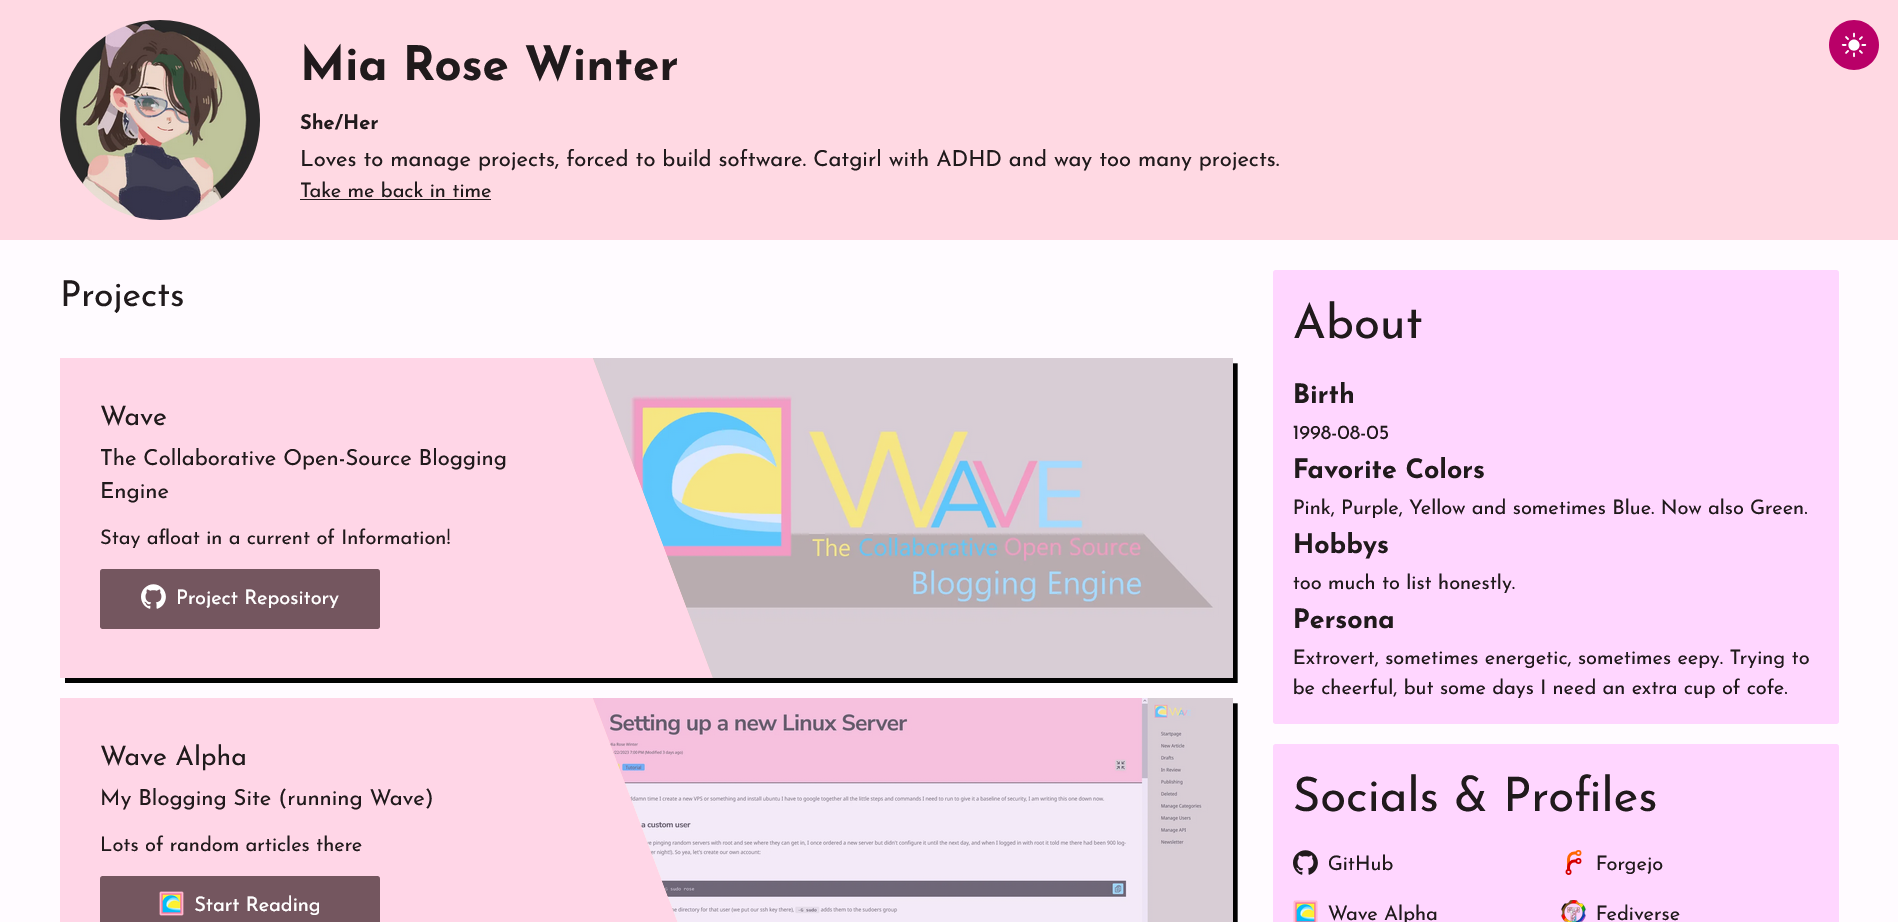
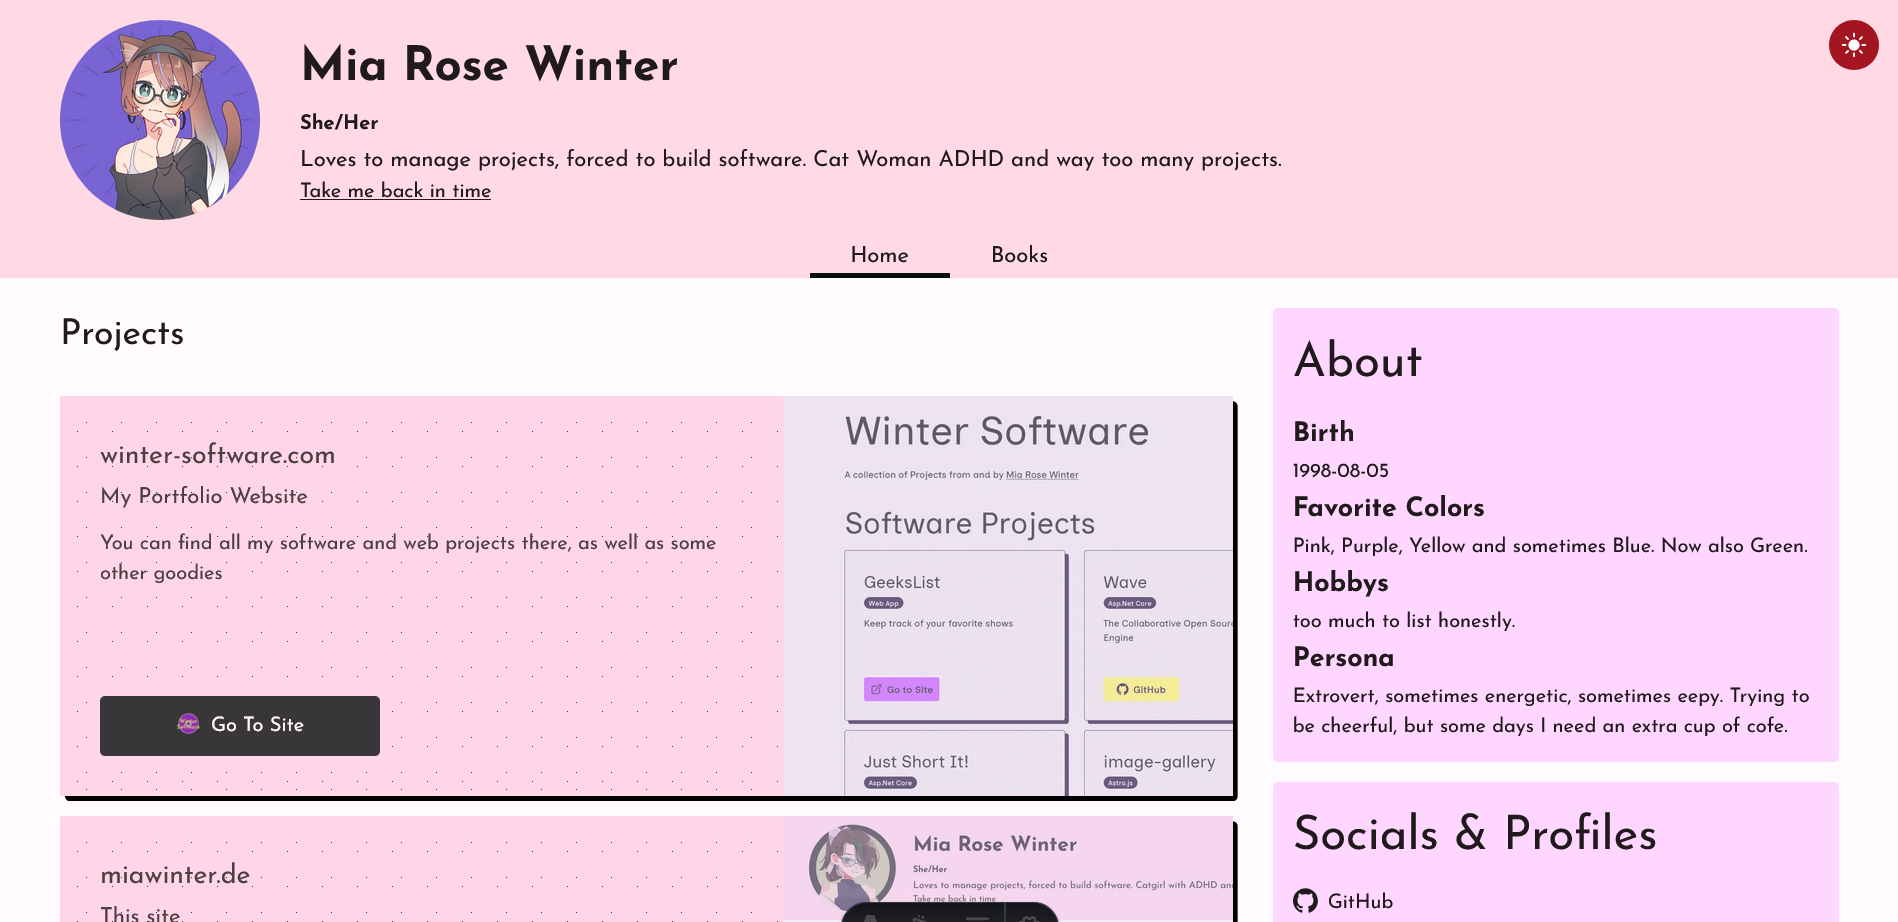
updated colors, styling, layout, projects

diff --git a/src/layouts/style.css b/src/layouts/style.css
@@ -32,6 +32,8 @@
     --color-secondary-content: var(--color-secondary-content);
     --color-neutral: var(--color-neutral);
     --color-neutral-content: var(--color-neutral-content);
+    --color-accent: var(--color-accent);
+    --color-accent-content: var(--color-accent-content);
 
     --color-base-100: var(--color-base-100);
     --color-base-200: var(--color-base-200);
@@ -45,35 +47,60 @@
     }
 
     :root {
-        --color-primary: oklch(0.511 0.209 357.035);
+        --color-primary: oklch(0.46 0.173 24.495);
         --color-primary-content: white;
-        --color-secondary: oklch(0.487 0.042 359.019);
+        --color-secondary: oklch(0.161 0.011 196.108);
         --color-secondary-content: white;
         --color-neutral: oklch(0.92 0.044 0.338);
         --color-neutral-content: oklch(0.226 0.01 355.846);
+        --color-accent: var(--color-purple-200);
+        --color-accent-content: black;
 
         --color-base-100: oklch(0.992 0.007 325.627);
         --color-base-200: oklch(0.923 0.07 326.127);
-        --color-base-300: oklch(0.916 0.051 351.279); /* TODO ? */
+        --color-base-300: oklch(0.916 0.051 351.279);
         --color-base-content: oklch(0.226 0.01 355.846);
     }
 
     [data-theme="dark"] {
-        --color-primary: oklch(0.511 0.209 357.035);
-        --color-primary-content: oklch(0.961 0 89.876);
-        --color-secondary: oklch(0.54 0.221 356.764);
-        --color-secondary-content: oklch(0.961 0 89.876);
-        --color-neutral: oklch(0.625 0.211 336.837);
+        --color-primary: oklch(0.434 0.174 22.791);
+        --color-primary-content: white;
+        --color-secondary: oklch(0.161 0.011 196.108);
+        --color-secondary-content: white;
+        --color-neutral: oklch(0.579 0.217 337.724);
         --color-neutral-content: white;
+        --color-accent: var(--color-purple-500);
+        --color-accent-content: black;
 
         --color-base-100: oklch(0.275 0.105 323.902);
         --color-base-200: oklch(0.458 0.191 324.14);
-        --color-base-300: oklch(0.367 0.149 323.79); /* TODO ? */
-        --color-base-content: oklch(0.961 0 89.876);
+        --color-base-300: oklch(0.367 0.149 323.79);
+        --color-base-content: white;
     }
 }
 @layer components {
     .cool {
         clip-path: polygon(0 0, 100% 0, 100% 100%, 6rem 100%);
+    }
+    .bg-pattern-diagonal {
+        @apply bg-blend-overlay;
+        background: transparent repeating-linear-gradient(-45deg, var(--color-secondary), var(--color-secondary) 8px, var(--color-base-300) 5px, var(--color-base-300) 25px);
+    }
+    .bg-pattern-rhombus {
+        @apply bg-blend-overlay;
+        background-color: transparent;
+        opacity: 0.8;
+        background-image:  linear-gradient(135deg, var(--color-secondary) 25%, transparent 25%), linear-gradient(225deg, var(--color-secondary) 25%, transparent 25%), linear-gradient(45deg, var(--color-secondary) 25%, transparent 25%), linear-gradient(315deg, var(--color-secondary) 25%, var(--color-base-300) 25%);
+        background-position:  7px 0, 7px 0, 0 0, 0 0;
+        background-size: 7px 7px;
+        background-repeat: repeat;
+    }
+    .bg-pattern-polka {
+        @apply bg-blend-overlay;
+        background-color: transparent;
+        opacity: 0.8;
+        background-image:  radial-gradient(var(--color-secondary) 0.35px, transparent 0.35px), radial-gradient(var(--color-secondary) 0.35px, var(--color-base-300) 0.35px);
+        background-size: 14px 14px;
+        background-position: 0 0,7px 7px;
     }
 }
